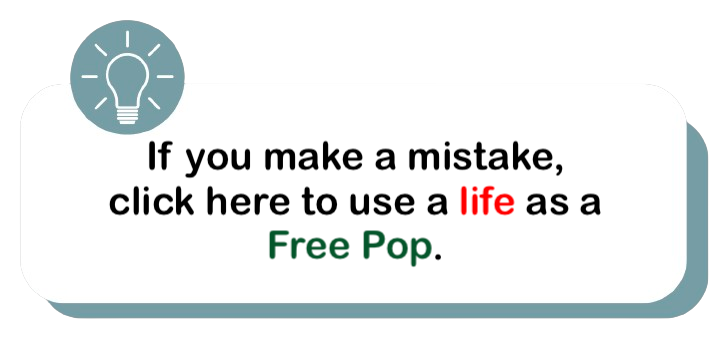
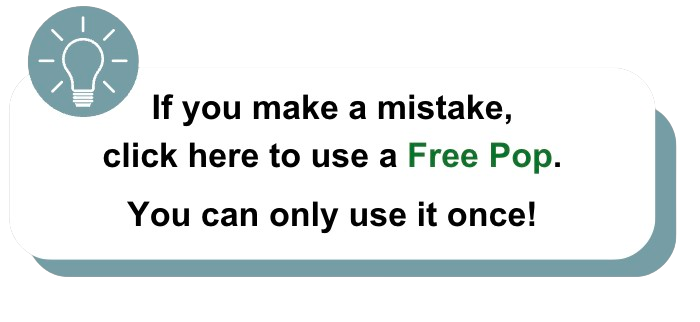
changed free pop to not make you lose life and it can only be used once

Changed region(s): [[0.03, 0.0, 0.84, 0.7764], [0.03, 0.3416, 0.99, 0.9317]]

diff --git a/src/scenes/levelZero.ts b/src/scenes/levelZero.ts
@@ -43,6 +43,7 @@ export default class LevelZero extends Phaser.Scene {
     private climbing: boolean = false;
     private isPushingMap: { [key: string]: boolean } = {}; // Flags for each item to make sure you can't pop it while it is being pushed
     private flashingRed: boolean = false;
+    private freePopUsed: boolean = false;
 
     private ladderDetectionArea: Phaser.GameObjects.Rectangle;
     private ladderHighlightBox: Phaser.GameObjects.Rectangle;
@@ -410,6 +411,10 @@ export default class LevelZero extends Phaser.Scene {
 
         popButton.on("pointerup", () => {
             this.freePop();
+            this.freePopUsed = true;
+            popButton.setScale(originalScale);
+            popButton.disableInteractive();
+            popButton.setTint(0x696969);
         });
 
         // Creating Pause Group for Buttons and Pause Popup
@@ -498,7 +503,9 @@ export default class LevelZero extends Phaser.Scene {
                 this.input.keyboard.enabled = true;
             }
             // Make it so player can click Free Pop button
-            popButton.setInteractive();
+            if (!this.freePopUsed) {
+                popButton.setInteractive();
+            }
         });
 
         // No music button for Pause popup
@@ -831,7 +838,7 @@ export default class LevelZero extends Phaser.Scene {
             .setScale(0.65)
             .setDepth(2);
         this.popDialogue = this.add
-            .image(750, 520, "FtoPop")
+            .image(750, 510, "FtoPop")
             .setScale(0.65)
             .setDepth(2);
         this.pushButton1 = this.add.image(1100, 650, "EButton").setScale(1, 1);
@@ -861,8 +868,8 @@ export default class LevelZero extends Phaser.Scene {
             .setDepth(2);
         this.hintInstruction.setVisible(false);
         this.freepopDialogue = this.add
-            .image(190, 170, "FreePopInstructions")
-            .setScale(0.43);
+            .image(190, 180, "FreePopInstructions")
+            .setScale(0.495);
         this.freepopDialogue.setVisible(false);
 
         this.pushDialogue.setVisible(false);
@@ -1199,8 +1206,6 @@ export default class LevelZero extends Phaser.Scene {
         if (this.isPushingMap[this.stack[this.stack.length - 1].name]) {
             return; // Prevent popping if a push is in progress
         }
-
-        this.loseLife();
 
         // Remove the top item from the stackpack
         const poppedItem = this.stack.pop();

diff --git a/src/scenes/levelThree.ts b/src/scenes/levelThree.ts
@@ -75,6 +75,7 @@ export default class LevelThree extends Phaser.Scene {
     private lastDirection: string = "right";
     private isPushingMap: { [key: string]: boolean } = {}; // Flags for each item to make sure you can't pop it while it is being pushed
     private flashingRed: boolean = false;
+    private freePopUsed: boolean = false;
 
     private hearts?: Phaser.GameObjects.Sprite[] = [];
     private lives: number = 3;
@@ -410,6 +411,10 @@ export default class LevelThree extends Phaser.Scene {
         });
         popButton.on("pointerup", () => {
             this.freePop();
+            this.freePopUsed = true;
+            popButton.setScale(originalScale);
+            popButton.disableInteractive();
+            popButton.setTint(0x696969);
         });
 
         // Define keys 'E' and 'F' for collecting and using items respectively
@@ -889,7 +894,7 @@ export default class LevelThree extends Phaser.Scene {
         this.physics.add.collider(this.keyDetectionArea, this.platforms);
 
         // Creating a highlighted rectangle to indicate where to use key
-        this.keyHighlightBox = this.add.rectangle(870, 130, 170, 200, 0xffff00);
+        this.keyHighlightBox = this.add.rectangle(870, 135, 170, 200, 0xffff00);
         this.keyHighlightBox.setAlpha(0.25);
         this.keyHighlightBox.setVisible(false);
 
@@ -1010,7 +1015,9 @@ export default class LevelThree extends Phaser.Scene {
                 this.input.keyboard.enabled = true;
             }
             // Make it so player can click Free Pop button
-            popButton.setInteractive();
+            if (!this.freePopUsed) {
+                popButton.setInteractive();
+            }
         });
 
         // No music button for Pause popup
@@ -1705,8 +1712,6 @@ export default class LevelThree extends Phaser.Scene {
         if (this.isPushingMap[this.stack[this.stack.length - 1].name]) {
             return; // Prevent popping if a push is in progress
         }
-
-        this.loseLife();
 
         // Remove the top item from the stackpack
         const poppedItem = this.stack.pop();
